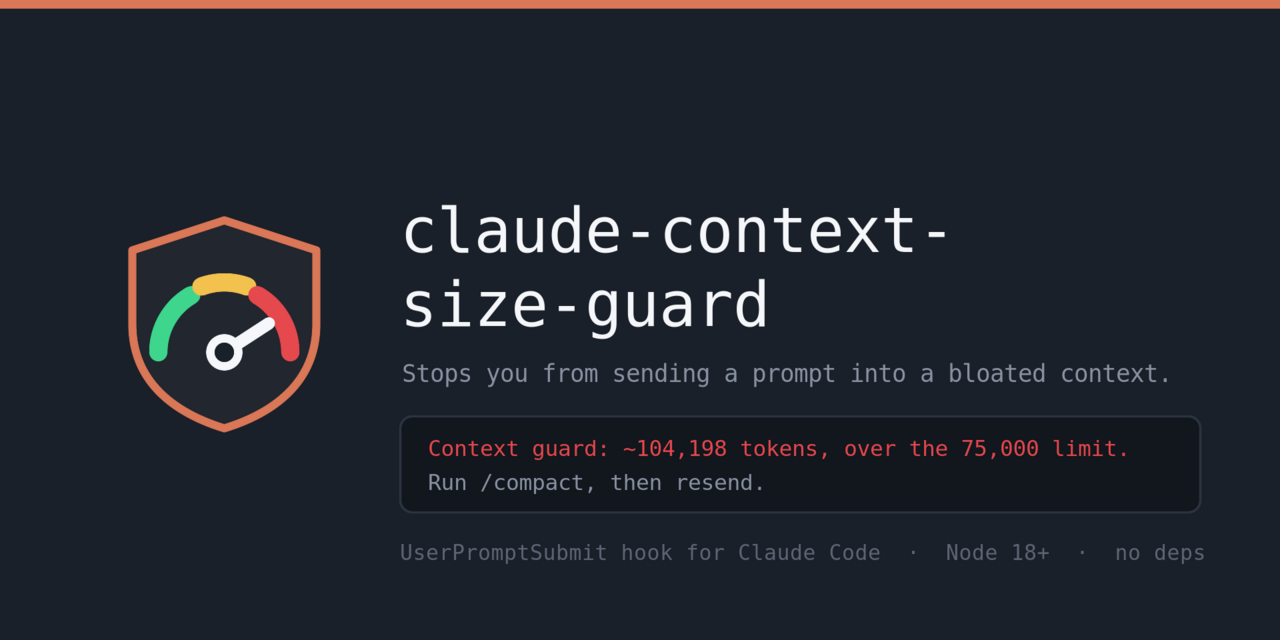
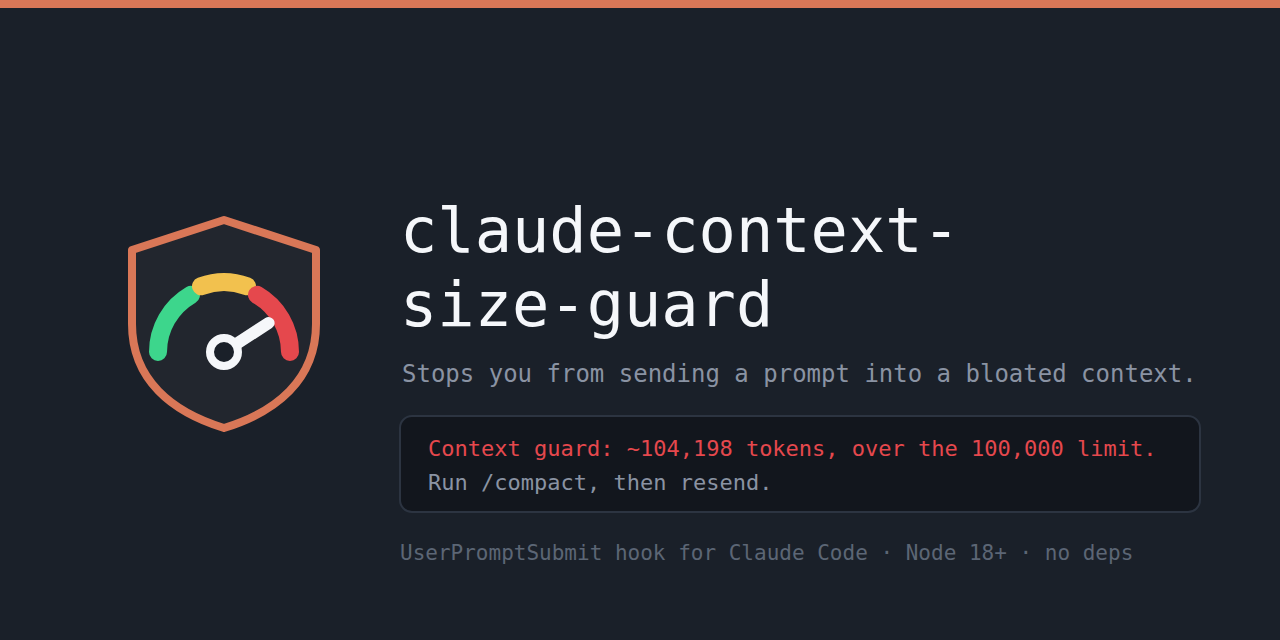
feat: raise default limit to 100,000 tokens
75,000 fired at ~37% of a 200k window — early enough to be noise on
sessions that were never going to need a compact. 100,000 fires at half
full, which still leaves /compact plenty of room. The old threshold is
one config key away: {"limit": 75000} or CONTEXT_GUARD_LIMIT.

The self-test now reads the default off the guard-config.js beside the
hook under test instead of hardcoding it, and cases 3, 7, and 9 size
their fixtures off that value, so a future default change cannot
silently desync them.

Docs, plugin/marketplace descriptions, and the social preview updated to
match. Version 1.1.0.

diff --git a/test/selftest.js b/test/selftest.js
@@ -12,8 +12,6 @@ const os = require('os');
 const path = require('path');
 const { execFileSync } = require('child_process');
 
-const LIMIT = 75000;
-
 function hookPath() {
   if (process.argv.includes('--installed')) {
     const base = process.env.CLAUDE_CONFIG_DIR || path.join(os.homedir(), '.claude');
@@ -23,6 +21,9 @@ function hookPath() {
 }
 
 const HOOK = hookPath();
+// Read the default straight off the config module that sits beside the hook
+// under test, so a changed default cannot silently desync from these cases.
+const LIMIT = require(path.join(path.dirname(HOOK), 'guard-config.js')).DEFAULTS.limit;
 const results = [];
 
 function run(prompt, transcript) {
@@ -90,7 +91,8 @@ function main() {
 
   // 3. over limit but under minRecords -> deadlock guard
   const t3 = path.join(tmp, 'few.jsonl');
-  writeLines(t3, [userRecord(200000), userRecord(200000)]);
+  // Sized off LIMIT so the case stays "over limit" whatever the default is.
+  writeLines(t3, [userRecord(LIMIT * 4), userRecord(LIMIT * 4)]);
   r = run('hello', t3);
   check('over limit, <3 records: deadlock guard silent', r.code === 0 && r.out === '', r.out.slice(0, 80));
 
@@ -113,21 +115,25 @@ function main() {
   check('missing transcript: silent, no crash', r.code === 0 && r.out === '', r.out.slice(0, 120));
 
   // 7. message.usage beats chars/4
+  // The three user records are a few bytes each, so chars/4 is nowhere near the
+  // limit: the guard can only fire off the usage accounting. Split across all
+  // three usage fields to prove they are summed, and sized off LIMIT.
   const t7 = path.join(tmp, 'usage-over.jsonl');
+  const usage = {
+    input_tokens: 20,
+    cache_read_input_tokens: LIMIT,
+    cache_creation_input_tokens: 1038,
+  };
+  const usageTotal = usage.input_tokens + usage.cache_read_input_tokens + usage.cache_creation_input_tokens;
   writeLines(t7, [
     { type: 'user', message: { role: 'user', content: 'hi' } },
     { type: 'user', message: { role: 'user', content: 'hi' } },
     { type: 'user', message: { role: 'user', content: 'hi' } },
-    {
-      type: 'assistant',
-      message: {
-        role: 'assistant',
-        usage: { input_tokens: 20, cache_read_input_tokens: 95780, cache_creation_input_tokens: 1038 },
-      },
-    },
+    { type: 'assistant', message: { role: 'assistant', usage } },
   ]);
   r = run('hello', t7);
-  check('usage beats chars/4 (96,838 real tokens)', r.out.includes('96,838'), r.out.slice(0, 90));
+  const usageLabel = usageTotal.toLocaleString('en-US');
+  check(`usage beats chars/4 (${usageLabel} real tokens)`, r.out.includes(usageLabel), r.out.slice(0, 90));
 
   // 8. usage under limit on a physically large transcript
   const t8 = path.join(tmp, 'usage-under.jsonl');
@@ -141,10 +147,12 @@ function main() {
 
   // 9. fallback counts attachment records, not just `message`
   const t9 = path.join(tmp, 'fallback.jsonl');
+  // Each attachment is LIMIT * 2 chars, so chars/4 over three of them is
+  // 1.5 * LIMIT — over the limit only if attachment records are counted at all.
   writeLines(t9, [
-    { type: 'attachment', content: 'x'.repeat(120000) },
-    { type: 'attachment', content: 'x'.repeat(120000) },
-    { type: 'attachment', content: 'x'.repeat(120000) },
+    { type: 'attachment', content: 'x'.repeat(LIMIT * 2) },
+    { type: 'attachment', content: 'x'.repeat(LIMIT * 2) },
+    { type: 'attachment', content: 'x'.repeat(LIMIT * 2) },
     { type: 'user', message: { role: 'user', content: 'hi' } },
   ]);
   r = run('hello', t9);

diff --git a/src/hooks/guard-config.js b/src/hooks/guard-config.js
@@ -24,10 +24,10 @@ const DEFAULTS = {
   //           UserPromptSubmit, so the prompt vanishes with no explanation on
   //           screen. Kept for reference; "warn" is the mode that communicates.
   mode: 'warn',
-  // Estimated tokens of live context before the guard fires. 75,000 suits a
-  // 200k window (fires around 37% full, early enough that /compact still has
+  // Estimated tokens of live context before the guard fires. 100,000 suits a
+  // 200k window (fires at half full, early enough that /compact still has
   // room to work). On a 1M window, 200000–400000 is reasonable.
-  limit: 75000,
+  limit: 100000,
   // Prompt prefix that skips the guard for that one prompt.
   bypass: '!!',
   // Below this many transcript records since the last compact boundary, never

diff --git a/README.md b/README.md
@@ -9,10 +9,10 @@
 
 Stops you from sending a prompt into an already-bloated context.
 
-A `UserPromptSubmit` hook for [Claude Code](https://claude.com/claude-code). It measures the live context on every prompt and, once it passes a threshold (default **75,000 tokens**), Claude answers with a one-line notice telling you to run `/compact` — instead of burning a full expensive turn on a context that should have been compacted three prompts ago.
+A `UserPromptSubmit` hook for [Claude Code](https://claude.com/claude-code). It measures the live context on every prompt and, once it passes a threshold (default **100,000 tokens**), Claude answers with a one-line notice telling you to run `/compact` — instead of burning a full expensive turn on a context that should have been compacted three prompts ago.
 
 ```
-Context guard: ~104,198 tokens, over the 75,000 limit. Run /compact, then resend.
+Context guard: ~104,198 tokens, over the 100,000 limit. Run /compact, then resend.
 Bypass once by prefixing the prompt with !!
 ```
 
@@ -102,7 +102,7 @@ Config file shape — every key optional:
 ```json
 {
   "mode": "warn",
-  "limit": 75000,
+  "limit": 100000,
   "bypass": "!!",
   "minRecords": 3
 }
@@ -111,13 +111,13 @@ Config file shape — every key optional:
 | Key | Default | Meaning |
 |---|---|---|
 | `mode` | `"warn"` | `"warn"` injects a directive and Claude speaks the notice. `"block"` discards the prompt — see below. |
-| `limit` | `75000` | Estimated tokens of live context before the guard fires. |
+| `limit` | `100000` | Estimated tokens of live context before the guard fires. |
 | `bypass` | `"!!"` | Prompt prefix that skips the guard for that one prompt. |
 | `minRecords` | `3` | Below this many records since the last compact, never fire. |
 
 A malformed config file is ignored rather than crashing the hook — a crashing `UserPromptSubmit` hook puts a red banner on every prompt, which is worse than falling back to defaults.
 
-**Tuning `limit`.** 75,000 suits a 200k-token window: it fires around 37% full, early enough that `/compact` still has plenty of room to work. On a 1M-token window, 200,000–400,000 is reasonable. A repo-local `.context-guard.json` lets one heavy monorepo run a higher threshold than the rest of your work.
+**Tuning `limit`.** 100,000 suits a 200k-token window: it fires at half full, early enough that `/compact` still has plenty of room to work. On a 1M-token window, 200,000–400,000 is reasonable. A repo-local `.context-guard.json` lets one heavy monorepo run a higher threshold than the rest of your work.
 
 **On `mode: "block"`.** Claude Code renders neither `reason` nor `systemMessage` for a blocked `UserPromptSubmit`, so your prompt disappears with no explanation on screen (it is stashed to `tmp/blocked-prompt.txt` so it is recoverable). `"warn"` is the mode that actually communicates. `"block"` is kept for completeness.
 

diff --git a/CHANGELOG.md b/CHANGELOG.md
@@ -4,6 +4,19 @@ All notable changes to this project are documented here.
 Format follows [Keep a Changelog](https://keepachangelog.com/en/1.1.0/);
 versioning follows [Semantic Versioning](https://semver.org/spec/v2.0.0.html).
 
+## [1.1.0] — 2026-08-17
+
+### Changed
+
+- **Default `limit` raised from 75,000 to 100,000 tokens.** 75,000 fired at
+  around 37% of a 200k window, early enough to be noise on sessions that were
+  never going to need a compact. 100,000 fires at half full, which still leaves
+  `/compact` plenty of room. Anyone who wants the old threshold can set
+  `{"limit": 75000}` in a user or repo-local config, or `CONTEXT_GUARD_LIMIT`.
+- The self-test now reads the default off the `guard-config.js` sitting beside
+  the hook under test instead of hardcoding it, so a changed default cannot
+  silently desync from the cases.
+
 ## [1.0.1] — 2026-08-17
 
 ### Fixed
